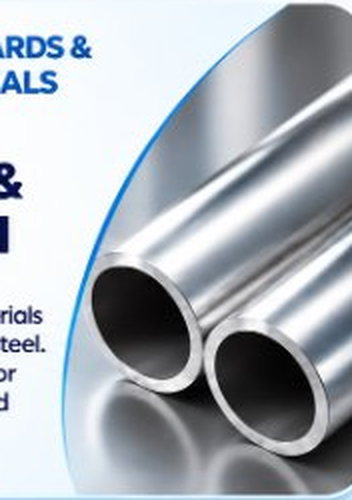
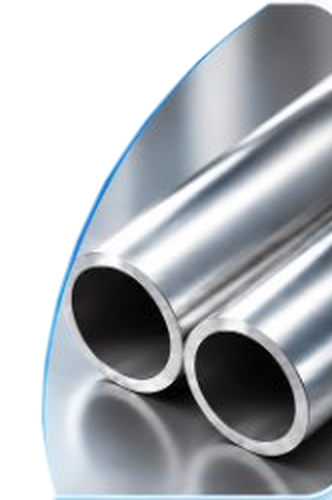
Fix card fitting: clean transparent edge with no text ghosting and perfect right alignment

diff --git a/src/pages/Home.jsx b/src/pages/Home.jsx
@@ -782,7 +782,7 @@ export default function Home() {
               <div className="bg-white rounded-3xl border border-sky-100/90 shadow-sm hover:shadow-xl hover-lift transition-all duration-300 overflow-hidden relative group p-5 sm:p-6 flex flex-col justify-between min-h-[260px] sm:min-h-[280px]">
                 
                 {/* Content on Left */}
-                <div className="w-[62%] sm:w-[58%] z-10 relative flex flex-col justify-between h-full space-y-3">
+                <div className="w-[54%] sm:w-[52%] z-10 relative flex flex-col justify-between h-full space-y-2 sm:space-y-3">
                   
                   {/* Category Header */}
                   <div className="flex items-center gap-3">
@@ -829,11 +829,11 @@ export default function Home() {
                 </div>
 
                 {/* Right Integrated Visual */}
-                <div className="absolute right-0 top-0 bottom-0 w-[42%] sm:w-[45%] h-full pointer-events-none select-none overflow-hidden z-0 flex items-center justify-end">
+                <div className="absolute right-0 top-0 bottom-0 w-[49%] sm:w-[50%] h-full pointer-events-none select-none overflow-hidden z-0 flex items-center justify-end">
                   <img
                     src="/images/warranty/warranty_shield.png"
                     alt="Unconditional Manufacturer Warranty Shield"
-                    className="w-full h-full object-cover object-left transform group-hover:scale-105 transition-transform duration-700 ease-out"
+                    className="w-full h-full object-cover object-right transform group-hover:scale-105 transition-transform duration-700 ease-out"
                     loading="lazy"
                   />
                 </div>
@@ -844,7 +844,7 @@ export default function Home() {
               <div className="bg-white rounded-3xl border border-sky-100/90 shadow-sm hover:shadow-xl hover-lift transition-all duration-300 overflow-hidden relative group p-5 sm:p-6 flex flex-col justify-between min-h-[260px] sm:min-h-[280px]">
                 
                 {/* Content on Left */}
-                <div className="w-[62%] sm:w-[58%] z-10 relative flex flex-col justify-between h-full space-y-3">
+                <div className="w-[54%] sm:w-[52%] z-10 relative flex flex-col justify-between h-full space-y-2 sm:space-y-3">
                   
                   {/* Category Header */}
                   <div className="flex items-center gap-3">
@@ -883,11 +883,11 @@ export default function Home() {
                 </div>
 
                 {/* Right Integrated Visual */}
-                <div className="absolute right-0 top-0 bottom-0 w-[42%] sm:w-[45%] h-full pointer-events-none select-none overflow-hidden z-0 flex items-center justify-end">
+                <div className="absolute right-0 top-0 bottom-0 w-[49%] sm:w-[50%] h-full pointer-events-none select-none overflow-hidden z-0 flex items-center justify-end">
                   <img
                     src="/images/warranty/water_splash.png"
                     alt="Water Quality Compatibility Splash"
-                    className="w-full h-full object-cover object-left transform group-hover:scale-105 transition-transform duration-700 ease-out"
+                    className="w-full h-full object-cover object-right transform group-hover:scale-105 transition-transform duration-700 ease-out"
                     loading="lazy"
                   />
                 </div>
@@ -898,7 +898,7 @@ export default function Home() {
               <div className="bg-white rounded-3xl border border-sky-100/90 shadow-sm hover:shadow-xl hover-lift transition-all duration-300 overflow-hidden relative group p-5 sm:p-6 flex flex-col justify-between min-h-[260px] sm:min-h-[280px]">
                 
                 {/* Content on Left */}
-                <div className="w-[62%] sm:w-[58%] z-10 relative flex flex-col justify-between h-full space-y-3">
+                <div className="w-[54%] sm:w-[52%] z-10 relative flex flex-col justify-between h-full space-y-2 sm:space-y-3">
                   
                   {/* Category Header */}
                   <div className="flex items-center gap-3">
@@ -937,11 +937,11 @@ export default function Home() {
                 </div>
 
                 {/* Right Integrated Visual */}
-                <div className="absolute right-0 top-0 bottom-0 w-[42%] sm:w-[45%] h-full pointer-events-none select-none overflow-hidden z-0 flex items-center justify-end">
+                <div className="absolute right-0 top-0 bottom-0 w-[49%] sm:w-[50%] h-full pointer-events-none select-none overflow-hidden z-0 flex items-center justify-end">
                   <img
                     src="/images/warranty/stainless_steel_pipes.png"
                     alt="ISO Standards and Stainless Steel Materials"
-                    className="w-full h-full object-cover object-left transform group-hover:scale-105 transition-transform duration-700 ease-out"
+                    className="w-full h-full object-cover object-right transform group-hover:scale-105 transition-transform duration-700 ease-out"
                     loading="lazy"
                   />
                 </div>
